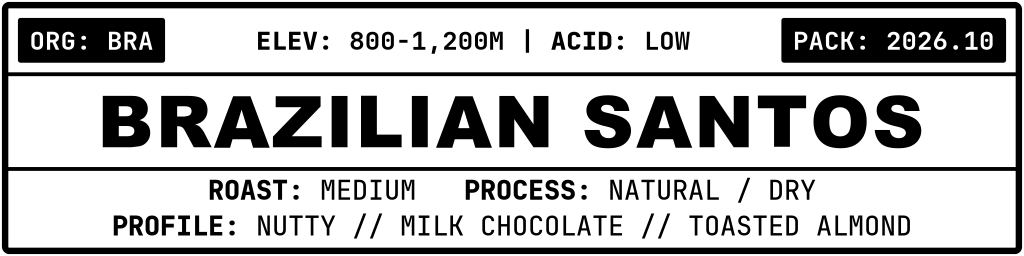
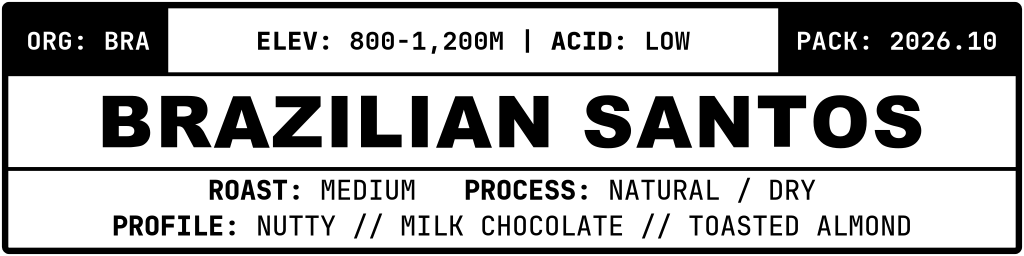
Extend ORG and PACK badges into the label's top corners
The badges now fill the top band out to the border and down to the first
divider, merging with the frame, with ELEV / ACID centered between them.

Changed region(s): [[0.75, 0.0312, 1.0, 0.3125], [0.0, 0.0312, 0.1875, 0.3125]]

diff --git a/gen.py b/gen.py
@@ -54,8 +54,12 @@ VIEW_WIDTH = 400
 VIEW_HEIGHT = 100
 CENTER_X = VIEW_WIDTH / 2
 TEXT_WIDTH = 380
-# Distance of pinned badges from the label edges (matches their gap to the top border)
-EDGE_INSET = 7
+# Border rect and the top band (above divider 1) that pinned badges fill
+BORDER = 2
+BORDER_STROKE = 2.5
+HEADER_BOTTOM = 29
+# Pinned badges sit flush against the inside of the border
+EDGE_INSET = BORDER + BORDER_STROKE / 2
 
 # cairosvg only uses the first family of a font-family list
 MONO_FONT = "'JetBrains Mono', 'DejaVu Sans Mono', monospace"
@@ -73,13 +77,15 @@ TITLE_SPACING = 0.8
 BADGE_PAD = 0.45
 BADGE_HEIGHT = 1.75
 BADGE_RISE = 1.24
+# Side padding of pinned corner badges, which are taller than inline ones
+CORNER_PAD = 0.7
 TELEMETRY_SPACING = 0.2
 
 SVG_TEMPLATE = """<svg xmlns="http://www.w3.org/2000/svg" viewBox="0 0 {VIEW_WIDTH} {VIEW_HEIGHT}" width="{TARGET_WIDTH}" height="{TARGET_HEIGHT}">
   <defs>
     <style>
       .bg {{{{ fill: #ffffff; }}}}
-      .border {{{{ stroke: #000000; stroke-width: 2.5; fill: none; }}}}
+      .border {{{{ stroke: #000000; stroke-width: {BORDER_STROKE}; fill: none; }}}}
       .line {{{{ stroke: #000000; stroke-width: 1.5; }}}}
       .title {{{{ fill: #000000; font-family: {TITLE_FONT}; font-weight: 900; letter-spacing: {TITLE_SPACING}px; }}}}
       .mono {{{{ fill: #000000; font-family: {MONO_FONT}; font-weight: 400; }}}}
@@ -92,13 +98,13 @@ SVG_TEMPLATE = """<svg xmlns="http://www.w3.org/2000/svg" viewBox="0 0 {VIEW_WID
 
   <!-- Background and Inset Border -->
   <rect class="bg" width="{VIEW_WIDTH}" height="{VIEW_HEIGHT}" />
-  <rect class="border" x="2" y="2" width="396" height="96" rx="1.5" />
+  <rect class="border" x="{BORDER}" y="{BORDER}" width="{BORDER_W}" height="{BORDER_H}" rx="1.5" />
 
   <!-- ZONE 1: TELEMETRY -->
 {{TELEMETRY}}
 
   <!-- Divider 1 -->
-  <line class="line" x1="2" y1="29" x2="398" y2="29" />
+  <line class="line" x1="2" y1="{HEADER_BOTTOM}" x2="398" y2="{HEADER_BOTTOM}" />
 
   <!-- ZONE 2: TITLE (vertically centered on the label) -->
 {{TITLE}}
@@ -115,6 +121,8 @@ SVG_TEMPLATE = """<svg xmlns="http://www.w3.org/2000/svg" viewBox="0 0 {VIEW_WID
     TARGET_WIDTH=TARGET_WIDTH, TARGET_HEIGHT=TARGET_HEIGHT,
     TITLE_FONT=TITLE_FONT, MONO_FONT=MONO_FONT, LABEL_FONT=LABEL_FONT,
     TITLE_SPACING=TITLE_SPACING, TELEMETRY_SPACING=TELEMETRY_SPACING,
+    BORDER=BORDER, BORDER_STROKE=BORDER_STROKE, HEADER_BOTTOM=HEADER_BOTTOM,
+    BORDER_W=VIEW_WIDTH - 2 * BORDER, BORDER_H=VIEW_HEIGHT - 2 * BORDER,
 )
 
 # Measure at the render scale: cairo hints glyph advances to device pixels
@@ -131,10 +139,10 @@ def text_width(text: str, family: str, size: float, bold: bool, spacing: float =
     return _measure.text_extents(text)[4] + spacing * len(text)
 
 
-def _layout(segments, size, family, spacing, bold_weight):
+def _layout(segments, size, family, spacing, bold_weight, pad_ratio=BADGE_PAD):
     """Widths of (text, style) segments, the space between them and badge padding."""
     space = text_width(" ", family, size, False, spacing)
-    pad = BADGE_PAD * size
+    pad = pad_ratio * size
     widths = []
     for t, style in segments:
         face = LABEL_FONT if style == "label" else family
@@ -168,8 +176,9 @@ def centered_line(segments, y: float, family: str, size: float, classes: str,
     style is None, "label" (extra bold field name) or "badge" (white bold text
     on a black box).
     Segments are separated by one space; an empty segment adds an extra space.
-    left / right are single segments pinned EDGE_INSET from the label edges;
-    the other segments are then centered in the space between them.
+    left / right are single badge segments filling the top corners of the
+    label, from the border to divider 1; the other segments are then
+    centered in the space between them.
     The font size shrinks from size only if the line would not fit.
     If cap (cap height / font size) is given, y is the vertical center of the
     capitals rather than the baseline.
@@ -182,17 +191,17 @@ def centered_line(segments, y: float, family: str, size: float, classes: str,
     avail = VIEW_WIDTH - 2 * EDGE_INSET if pinned else TEXT_WIDTH
 
     def fit(sz):
-        lw, space, pad, ltotal = _layout(left, sz, family, spacing, bold_weight)
-        rw, _, _, rtotal = _layout(right, sz, family, spacing, bold_weight)
-        mw, _, _, mtotal = _layout(segments, sz, family, spacing, bold_weight)
+        lw, _, cpad, ltotal = _layout(left, sz, family, spacing, bold_weight, CORNER_PAD)
+        rw, _, _, rtotal = _layout(right, sz, family, spacing, bold_weight, CORNER_PAD)
+        mw, space, pad, mtotal = _layout(segments, sz, family, spacing, bold_weight)
         gaps = 2 * space * (bool(left) + bool(right))
-        return (lw, ltotal), (rw, rtotal), (mw, mtotal), space, pad, ltotal + rtotal + mtotal + gaps
+        return (lw, ltotal), (rw, rtotal), (mw, mtotal), space, pad, cpad, ltotal + rtotal + mtotal + gaps
 
-    (lw, ltotal), (rw, rtotal), (mw, mtotal), space, pad, total = fit(size)
+    (lw, ltotal), (rw, rtotal), (mw, mtotal), space, pad, cpad, total = fit(size)
     # Hinted advances change with size, so shrink until it actually fits
     while total > avail:
         size *= avail / total * 0.995
-        (lw, ltotal), (rw, rtotal), (mw, mtotal), space, pad, total = fit(size)
+        (lw, ltotal), (rw, rtotal), (mw, mtotal), space, pad, cpad, total = fit(size)
 
     if cap:
         y = round(y + cap * size / 2, 2)
@@ -201,10 +210,26 @@ def centered_line(segments, y: float, family: str, size: float, classes: str,
     if pinned:
         x = (EDGE_INSET + ltotal + VIEW_WIDTH - EDGE_INSET - rtotal) / 2 - mtotal / 2
 
-    out = _emit(left, lw, EDGE_INSET, y, size, space, pad, classes)
+    out = []
+    for seg, x0, w in ((left, EDGE_INSET, ltotal), (right, VIEW_WIDTH - EDGE_INSET - rtotal, rtotal)):
+        if seg:
+            out.append(_corner_badge(seg[0][0], x0, w, y, size, cpad, classes))
     out += _emit(segments, mw, x, y, size, space, pad, classes)
-    out += _emit(right, rw, VIEW_WIDTH - EDGE_INSET - rtotal, y, size, space, pad, classes)
     return "\n".join(out)
+
+
+def _corner_badge(text, x, w, y, size, pad, classes):
+    """Badge spanning x..x+w inside the border, filling the top band.
+
+    The box runs out to the middle of the border stroke and down to the
+    middle of divider 1 so it merges with both.
+    """
+    left = BORDER if x <= EDGE_INSET else x
+    right = VIEW_WIDTH - BORDER if x + w >= VIEW_WIDTH - EDGE_INSET else x + w
+    return (f'  <rect class="badge-bg" x="{left:.2f}" y="{BORDER}" width="{right - left:.2f}" '
+            f'height="{HEADER_BOTTOM - BORDER}" />\n'
+            f'  <text class="{classes} badge-text" x="{x + pad:.2f}" y="{y}" '
+            f'font-size="{size:.2f}">{escape(text)}</text>')
 
 
 def build_svg(data: dict, pack_date: str) -> str:

diff --git a/README.md b/README.md
@@ -117,12 +117,12 @@ Layout, top to bottom:
          PROFILE: EARTHY // DARK CHOCOLATE // CEDAR // HERBAL
 ```
 
-`ORG` and `PACK` are white-on-black badges pinned to the left and right
-edges, so they sit in the same place on every label, with `ELEV` / `ACID`
-centered between them. All other lines are centered on the label. Each line
-is measured with the same fonts and scale `cairosvg` renders with, and only
-shrinks if it would not fit the label width, so long coffee names get a
-slightly smaller title.
+`ORG` and `PACK` are white-on-black blocks filling the top-left and
+top-right corners out to the border, so they sit in the same place on every
+label, with `ELEV` / `ACID` centered between them. All other lines are
+centered on the label. Each line is measured with the same fonts and scale
+`cairosvg` renders with, and only shrinks if it would not fit the label
+width, so long coffee names get a slightly smaller title.
 
 ### Preview
 
